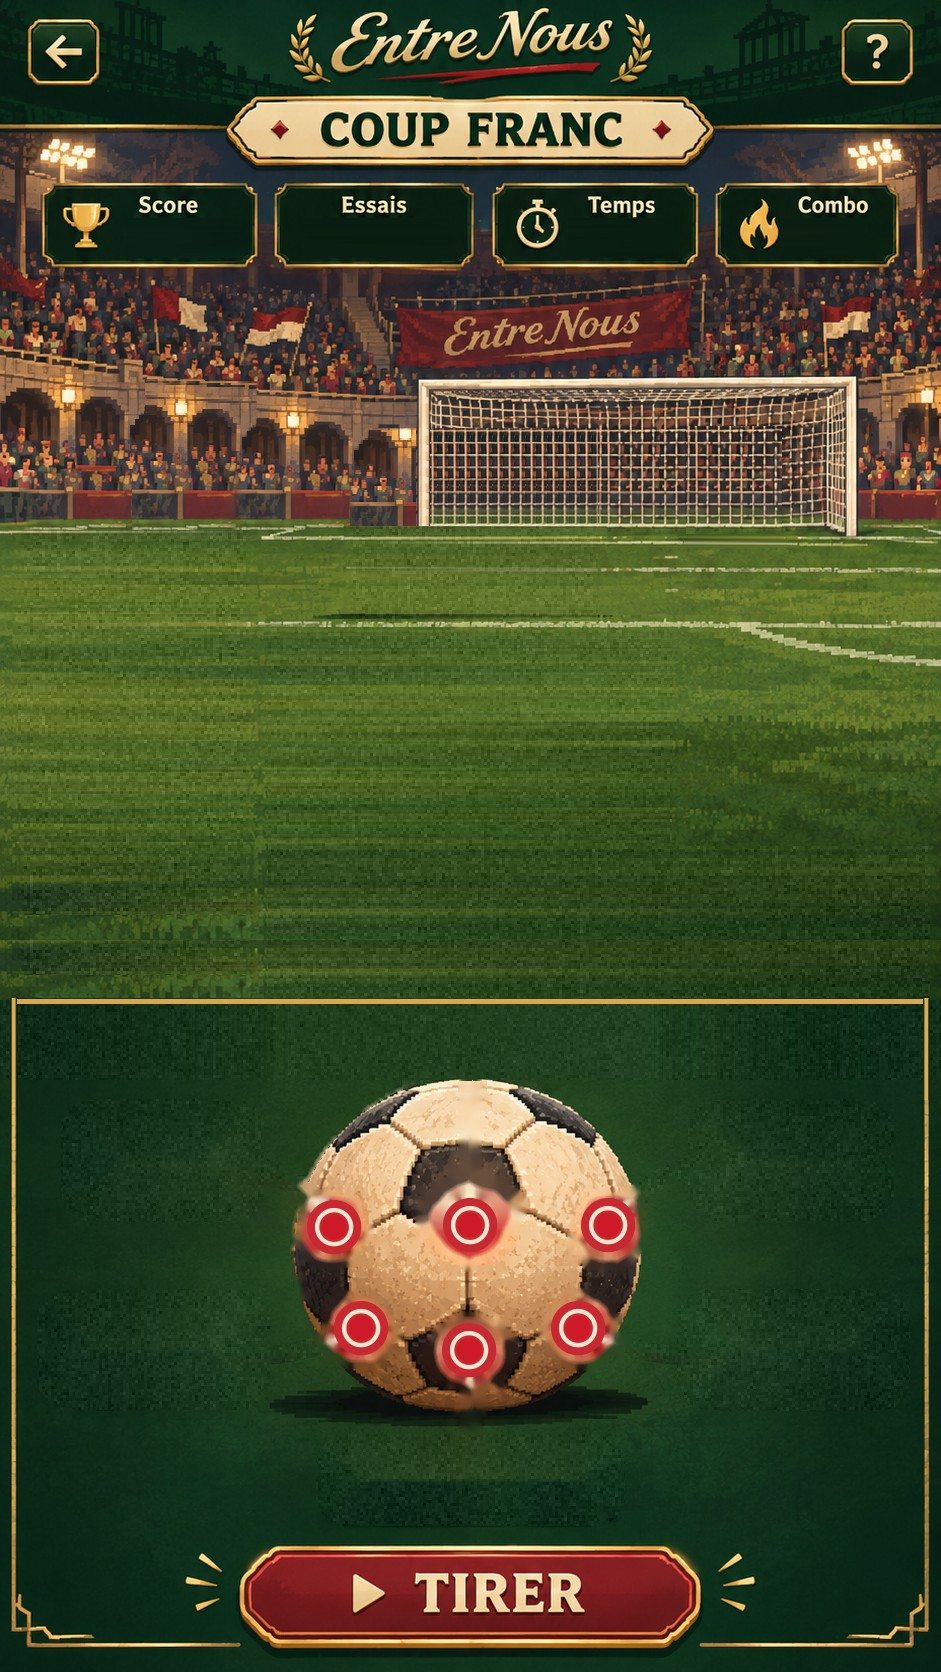
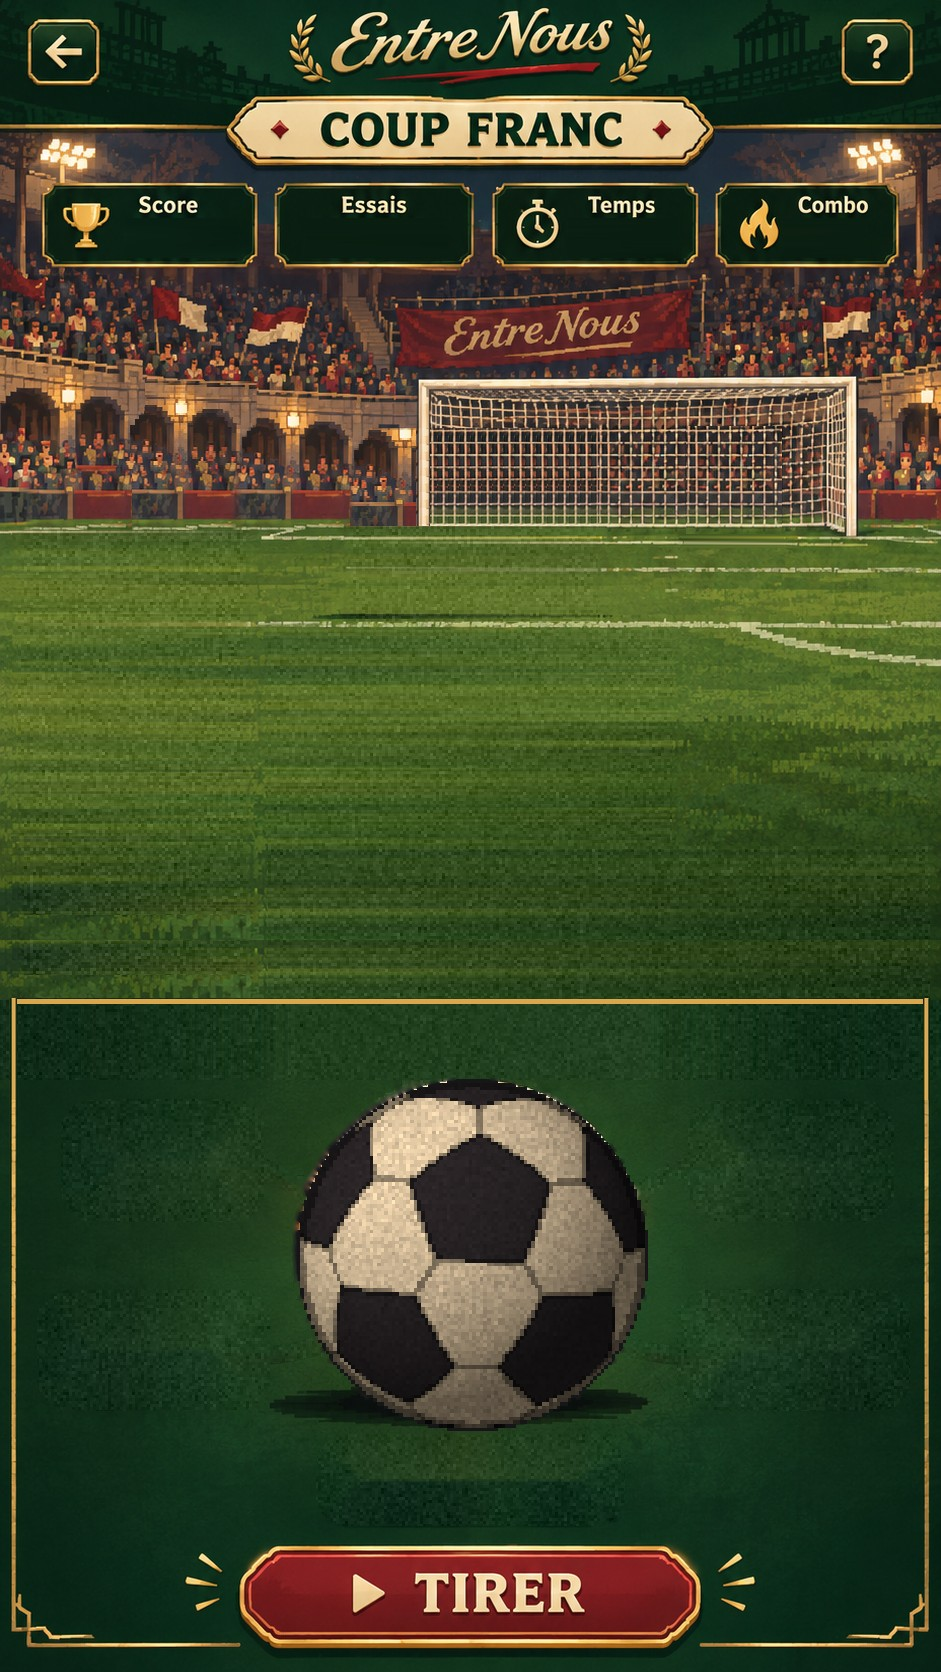
Coup franc : gros ballon lisse (sans points rouges), point d'impact libre
Claude-Session: https://claude.ai/code/session_017bSkysZbUvQznu3NuY22Vg

Changed region(s): [[0.3082, 0.622, 0.7088, 0.8708]]

diff --git a/src/FreeKickGame.tsx b/src/FreeKickGame.tsx
@@ -420,11 +420,12 @@ export default function FreeKickGame({ groupId, groupName, autoApplyAllLeagues, 
     if (eng.phase !== 'aim' || !eng.shot || !eng.pick) return
     const sc = eng.scene, b = sc.ball0
     const { dirX, power } = eng.shot
-    const dot = DOTS[eng.pick.i]
-    const kind = dot.kind
-    const curl = dot.curl
-    // précision : toucher pile le point rouge = le ballon va exactement où on vise
-    const miss = 1 - eng.pick.prec
+    // point d'impact (continu) : côté = effet, bas = le ballon monte, haut = il plonge
+    const bb = IMG.bigBall
+    const ix = Math.max(-1, Math.min(1, (eng.pick.x - bb.x) / bb.r)), iy = Math.max(-1, Math.min(1, (eng.pick.y - bb.y) / bb.r))
+    const kind = shotKind(ix, iy)
+    const curl = Math.max(-1, Math.min(1, ix * 1.15))
+    const miss = 0
     // visée : la direction du swipe, prolongée depuis la flèche jusqu'au but = là où le ballon finit
     const screenX = IMG.aimFrom.x + dirX * (IMG.aimFrom.y - 460) * 0.6 // moins sensible : le but entier ≈ un swipe de ±35°
     const tx = Math.max(-7, Math.min(7, (screenX - IMG.goal.x) / SX[2]))
@@ -712,26 +713,19 @@ export default function FreeKickGame({ groupId, groupName, autoApplyAllLeagues, 
       roundRect(ctx, z.x0 + 4, z.y0 + 4, z.x1 - z.x0 - 8, z.y1 - z.y0 - 8, 12); ctx.stroke()
     }
 
-    // ---- point rouge choisi sur le gros ballon ----
+    // ---- point d'impact choisi sur le gros ballon ----
     if (eng.pick) {
-      const d = DOTS[eng.pick.i]
       const pulse = 0.5 + 0.5 * Math.sin(now / 180)
-      ctx.strokeStyle = `rgba(255,214,90,${0.6 + 0.4 * pulse})`; ctx.lineWidth = 7
-      ctx.beginPath(); ctx.arc(d.x, d.y, 34 + pulse * 6, 0, Math.PI * 2); ctx.stroke()
-      // là où le doigt a touché
-      ctx.fillStyle = '#fff'; ctx.strokeStyle = '#1b1b1f'; ctx.lineWidth = 3
-      ctx.beginPath(); ctx.arc(eng.pick.x, eng.pick.y, 7, 0, Math.PI * 2); ctx.fill(); ctx.stroke()
-    } else if (eng.phase === 'aim' && eng.help) {
-      // invite : les points rouges clignotent
-      const pulse = 0.5 + 0.5 * Math.sin(now / 200)
-      ctx.strokeStyle = `rgba(255,214,90,${0.25 + 0.5 * pulse})`; ctx.lineWidth = 5
-      for (const d of DOTS) { ctx.beginPath(); ctx.arc(d.x, d.y, 30, 0, Math.PI * 2); ctx.stroke() }
+      ctx.fillStyle = '#d8262c'; ctx.strokeStyle = '#fff'; ctx.lineWidth = 5
+      ctx.beginPath(); ctx.arc(eng.pick.x, eng.pick.y, 16, 0, Math.PI * 2); ctx.fill(); ctx.stroke()
+      ctx.strokeStyle = `rgba(255,214,90,${0.5 + 0.5 * pulse})`; ctx.lineWidth = 5
+      ctx.beginPath(); ctx.arc(eng.pick.x, eng.pick.y, 26 + pulse * 5, 0, Math.PI * 2); ctx.stroke()
     }
     // ---- guide des 3 étapes (sur la pelouse) ----
     if (eng.phase === 'aim' && !eng.runAt && eng.help) {
       const step = !eng.pick ? 1 : !eng.shot ? 2 : 3
-      const l1 = step === 1 ? '① Touche un point rouge du ballon' : step === 2 ? '② Swipe vers le haut : direction + puissance' : '③ Appuie sur TIRER'
-      const l3 = eng.pick ? `${DOTS[eng.pick.i].label} · ${precLabel(eng.pick.prec)}${eng.shot ? ` · ${Math.round(eng.shot.power * 100)} %` : ''}` : 'il choisit ta frappe'
+      const l1 = step === 1 ? '① Touche le ballon' : step === 2 ? '② Swipe vers le haut : direction + puissance' : '③ Appuie sur TIRER'
+      const l3 = eng.pick ? `${SHOT_NAME[shotKind((eng.pick.x - IMG.bigBall.x) / IMG.bigBall.r, (eng.pick.y - IMG.bigBall.y) / IMG.bigBall.r)]}${eng.shot ? ` · ${Math.round(eng.shot.power * 100)} %` : ''}` : 'là où tu frappes le ballon'
       const lines = [l1, l3]
       ctx.font = '700 30px Oswald, sans-serif'
       const w = Math.max(...lines.map((t) => ctx.measureText(t).width)) + 44, h = 20 + lines.length * 36
@@ -741,7 +735,7 @@ export default function FreeKickGame({ groupId, groupName, autoApplyAllLeagues, 
       ctx.textAlign = 'center'; ctx.textBaseline = 'middle'
       lines.forEach((t, i) => {
         ctx.font = i === 0 ? '700 30px Oswald, sans-serif' : '600 25px Oswald, sans-serif'
-        ctx.fillStyle = i === 0 ? '#ffd84a' : t === l3 && eng.pick ? (eng.pick.prec >= 0.75 ? '#7fe08a' : eng.pick.prec >= 0.4 ? '#f5e7c4' : '#ff8a7a') : '#f5e7c4'
+        ctx.fillStyle = i === 0 ? '#ffd84a' : '#f5e7c4'
         ctx.fillText(t, x + w / 2, y + 28 + i * 36)
       })
       ctx.textBaseline = 'alphabetic'
@@ -778,7 +772,7 @@ export default function FreeKickGame({ groupId, groupName, autoApplyAllLeagues, 
       if (eng.help && now - eng.hintAt < 1600) {
         ctx.textAlign = 'center'; ctx.font = '700 34px Oswald, sans-serif'
         ctx.lineWidth = 7; ctx.strokeStyle = 'rgba(40,10,10,.85)'; ctx.fillStyle = '#ffd84a'
-        const t = !eng.pick ? 'Touche d\'abord un point rouge !' : 'Swipe vers le haut d\'abord !'
+        const t = !eng.pick ? 'Touche d\'abord le ballon !' : 'Swipe vers le haut d\'abord !'
         ctx.strokeText(t, IW / 2, 1505); ctx.fillText(t, IW / 2, 1505)
       }
     }
@@ -873,10 +867,10 @@ export default function FreeKickGame({ groupId, groupName, autoApplyAllLeagues, 
     // étape 1 : on touche le gros ballon -> point rouge le plus proche (+ précision)
     const bb = IMG.bigBall
     eng.pending = null
-    if (Math.hypot(p.x - bb.x, p.y - bb.y) <= bb.r * 1.08) {
-      let bi = 0, bd = 1e9
-      DOTS.forEach((d, i) => { const dd = Math.hypot(p.x - d.x, p.y - d.y); if (dd < bd) { bd = dd; bi = i } })
-      const pk = { i: bi, prec: Math.max(0, Math.min(1, 1 - (bd - 12) / 60)), x: p.x, y: p.y }
+    const dB = Math.hypot(p.x - bb.x, p.y - bb.y)
+    if (dB <= bb.r * 1.05) {
+      const k = dB > bb.r * 0.9 ? (bb.r * 0.9) / dB : 1
+      const pk = { i: 0, prec: 1, x: bb.x + (p.x - bb.x) * k, y: bb.y + (p.y - bb.y) * k }
       if (!eng.pick) { eng.pick = pk; sfxTick(); return }
       eng.pending = pk // tap = on change de point ; glisser = swipe
     }
@@ -915,13 +909,13 @@ export default function FreeKickGame({ groupId, groupName, autoApplyAllLeagues, 
     w.__fk = {
       start: (goals = 0) => { startGame(); engineRef.current.goals = goals; setupShot() },
       shot: (cx: number, cy: number, dirX: number, power: number) => {
-        const eng = engineRef.current; eng.pick = { i: dotFor(cx, cy), prec: 1, x: 0, y: 0 }; eng.shot = { dirX, power }; shoot()
+        const eng = engineRef.current; eng.pick = { i: 0, prec: 1, x: IMG.bigBall.x + cx * IMG.bigBall.r, y: IMG.bigBall.y + cy * IMG.bigBall.r }; eng.shot = { dirX, power }; shoot()
       },
       // simulation sans affichage (réglage de la difficulté)
       sim: (goals: number, cx: number, cy: number, dirX: number, power: number) => {
         const eng = engineRef.current
         eng.goals = goals; eng.lives = 99; setupShot()
-        eng.pick = { i: dotFor(cx, cy), prec: 1, x: 0, y: 0 }; eng.shot = { dirX, power }; shoot()
+        eng.pick = { i: 0, prec: 1, x: IMG.bigBall.x + cx * IMG.bigBall.r, y: IMG.bigBall.y + cy * IMG.bigBall.r }; eng.shot = { dirX, power }; shoot()
         for (let i = 0; i < 600 && eng.phase === 'flight'; i++) step(1 / 120)
         return { o: eng.outcome, spot: eng.scene.cfg.ballX }
       },
@@ -960,7 +954,7 @@ export default function FreeKickGame({ groupId, groupName, autoApplyAllLeagues, 
           <div className="fk2-rules" onClick={() => setShowRules(false)}>
             <div className="fk2-rules-box">
               <p className="fk2-card-title">Comment jouer ?</p>
-              <p>1. Touche un des 6 points rouges du gros ballon : il choisit ta frappe (tir droit, effet à gauche ou à droite, enroulée, ballon piqué). Plus tu touches pile le point, plus ton tir est précis (Parfait / Bien / Imprécis).</p>
+              <p>1. Touche le gros ballon là où tu veux le frapper : au centre = tir droit, sur le côté = effet (le ballon tourne vers l'autre côté), en bas = il monte, en bas sur le côté = frappe enroulée.</p>
               <p>2. Swipe vers le haut : la direction du swipe = là où le ballon finit ; swipe court = frappe douce et basse, long ou rapide = frappe forte et haute (vers 75 % c'est la lucarne, au-delà de 85 % c'est au-dessus).</p>
               <p>3. Appuie sur TIRER.</p>
               <p>But = 100 pts, lucarne = 200, multipliés par le combo (buts d'affilée, jusqu'à x5). 3 essais : chaque raté coûte un cœur. À chaque but, le tir recule et le gardien devient plus vif.</p>
@@ -1001,22 +995,7 @@ export default function FreeKickGame({ groupId, groupName, autoApplyAllLeagues, 
 
 // type de frappe selon le point touché sur le gros ballon
 type ShotKind = 'straight' | 'side' | 'curler' | 'lob'
-// les 6 points rouges du gros ballon (coordonnées sur l'image) = 6 frappes
-const DOTS: { x: number; y: number; kind: ShotKind; curl: number; label: string }[] = [
-  { x: 470, y: 1225, kind: 'straight', curl: 0, label: 'Tir droit' },
-  { x: 334, y: 1227, kind: 'side', curl: -0.8, label: 'Effet vers la droite' },
-  { x: 608, y: 1225, kind: 'side', curl: 0.8, label: 'Effet vers la gauche' },
-  { x: 361, y: 1328, kind: 'curler', curl: -1, label: 'Enroulée vers la droite' },
-  { x: 578, y: 1328, kind: 'curler', curl: 1, label: 'Enroulée vers la gauche' },
-  { x: 469, y: 1350, kind: 'lob', curl: 0, label: 'Ballon piqué' },
-]
-const precLabel = (p: number) => (p >= 0.75 ? 'Parfait' : p >= 0.4 ? 'Bien' : 'Imprécis')
-function dotFor(cx: number, cy: number) {
-  const bb = IMG.bigBall
-  let bi = 0, bd = 1e9
-  DOTS.forEach((d, i) => { const dd = Math.hypot(bb.x + cx * bb.r - d.x, bb.y + cy * bb.r - d.y); if (dd < bd) { bd = dd; bi = i } })
-  return bi
-}
+const SHOT_NAME: Record<ShotKind, string> = { straight: 'Tir droit', side: 'Effet', curler: 'Frappe enroulée', lob: 'Ballon piqué' }
 export function shotKind(cx: number, cy: number): ShotKind {
   if (cy > 0.5 && Math.abs(cx) < 0.4) return 'lob'
   if (cy > 0.25 && Math.abs(cx) >= 0.4) return 'curler'
